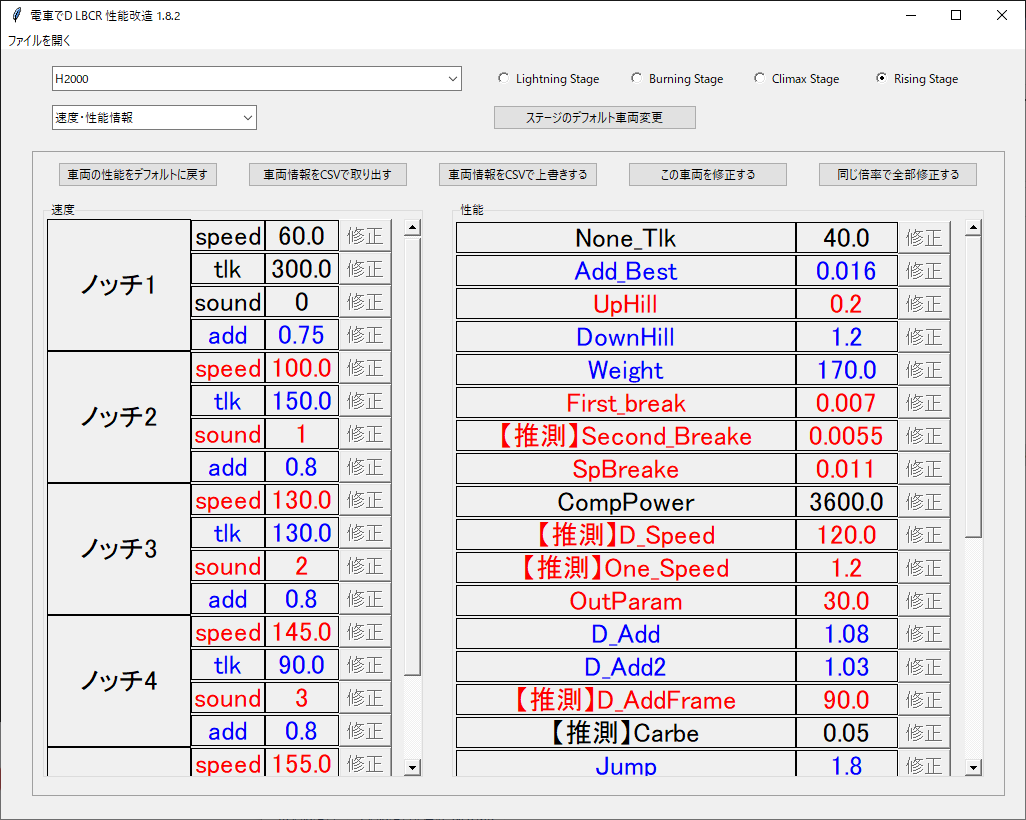
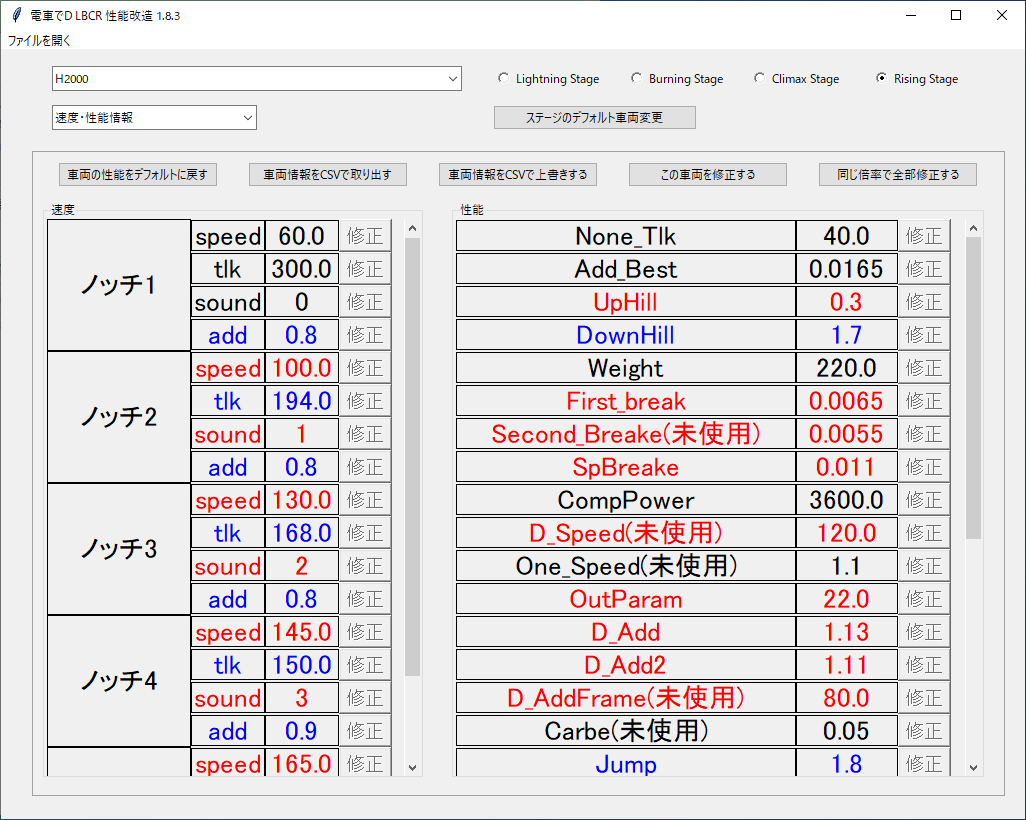
性能の詳細部分を修正

diff --git a/dendDecrypt/LSdecrypt.py b/dendDecrypt/LSdecrypt.py
@@ -28,21 +28,21 @@ perfName = [
     "Weight",
     "CompPower",
     "First_break",
-    "未詳",
+    "未詳(未使用)",
     "Second_Breake",
-    "未詳",
-    "未詳",
-    "未詳",
-    "未詳",
-    "未詳",
-    "未詳",
-    "【推測】D_Speed",
+    "未詳(未使用)",
+    "未詳(未使用)",
+    "未詳(未使用)",
+    "SpBreake",
+    "未詳(未使用)",
+    "未詳(未使用)",
+    "D_Speed(未使用)",
     "One_Speed",
     "OutParam",
     "D_Add",
-    "未詳",
-    "未詳",
-    "SpBreake",
+    "未詳(未使用)",
+    "未詳(未使用)",
+    "Carbe",
     "Jump",
     "ChangeFrame",
     "OutRun_Top",
@@ -1126,7 +1126,7 @@ class LSdecrypt():
             cnt += 1
             self.csvReadInfo["mdlNameList"] = mdlNameList
 
-            if csvLines[cnt].strip().split(":")[0] != "COLモデル":
+            if csvLines[cnt].strip().split(",")[0] != "COLモデル":
                 self.error = "COLモデル情報を探せません"
                 return False
 

diff --git a/editor.py b/editor.py
@@ -2,6 +2,7 @@
 
 import os
 import codecs
+import sys
 import tkinter
 from tkinter import ttk
 from tkinter import filedialog as fd
@@ -28,7 +29,8 @@ defaultData = []
 
 
 def resource_path(relative_path):
-    return os.path.join(os.path.dirname(__file__), "dendData", relative_path)
+    bundle_dir = getattr(sys, '_MEIPASS', os.path.join(os.path.abspath(os.path.dirname(__file__)), "dendData"))
+    return os.path.join(bundle_dir, relative_path)
 
 
 def defaultDataRead(game):
@@ -233,7 +235,7 @@ def editStageTrain():
 
 
 root = tkinter.Tk()
-root.title("電車でD LBCR 性能改造 1.8.2")
+root.title("電車でD LBCR 性能改造 1.8.3")
 root.geometry("1024x768")
 
 menubar = tkinter.Menu(root)

diff --git a/dendDecrypt/CSdecrypt.py b/dendDecrypt/CSdecrypt.py
@@ -36,16 +36,16 @@ perfName = [
     "DownHill",
     "Weight",
     "First_break",
-    "【推測】Second_Breake",
+    "Second_Breake(未使用)",
     "SpBreake",
     "CompPower",
-    "【推測】D_Speed",
-    "【推測】One_Speed",
+    "D_Speed(未使用)",
+    "One_Speed(未使用)",
     "OutParam",
     "D_Add",
     "D_Add2",
-    "【推測】D_AddFrame",
-    "【推測】Carbe",
+    "D_AddFrame(未使用)",
+    "Carbe(未使用)",
     "Jump",
     "ChangeFrame",
     "OutRun_Top",

diff --git a/dendDecrypt/RSdecrypt.py b/dendDecrypt/RSdecrypt.py
@@ -43,16 +43,16 @@ perfName = [
     "DownHill",
     "Weight",
     "First_break",
-    "【推測】Second_Breake",
+    "Second_Breake(未使用)",
     "SpBreake",
     "CompPower",
-    "【推測】D_Speed",
-    "【推測】One_Speed",
+    "D_Speed(未使用)",
+    "One_Speed(未使用)",
     "OutParam",
     "D_Add",
     "D_Add2",
-    "【推測】D_AddFrame",
-    "【推測】Carbe",
+    "D_AddFrame(未使用)",
+    "Carbe(未使用)",
     "Jump",
     "ChangeFrame",
     "OutRun_Top",

diff --git a/dendDecrypt/BSdecrypt.py b/dendDecrypt/BSdecrypt.py
@@ -24,16 +24,16 @@ perfName = [
     "DownHill",
     "Weight",
     "First_break",
-    "【推測】Second_Breake",
+    "Second_Breake(未使用)",
     "SpBreake",
     "CompPower",
-    "【推測】D_Speed",
-    "【推測】One_Speed",
+    "D_Speed(未使用)",
+    "One_Speed",
     "OutParam",
     "D_Add",
     "D_Add2",
-    "【推測】D_AddFrame",
-    "【推測】Carbe",
+    "D_AddFrame(未使用)",
+    "Carbe(未使用)",
     "Jump",
     "ChangeFrame",
     "OutRun_Top",
